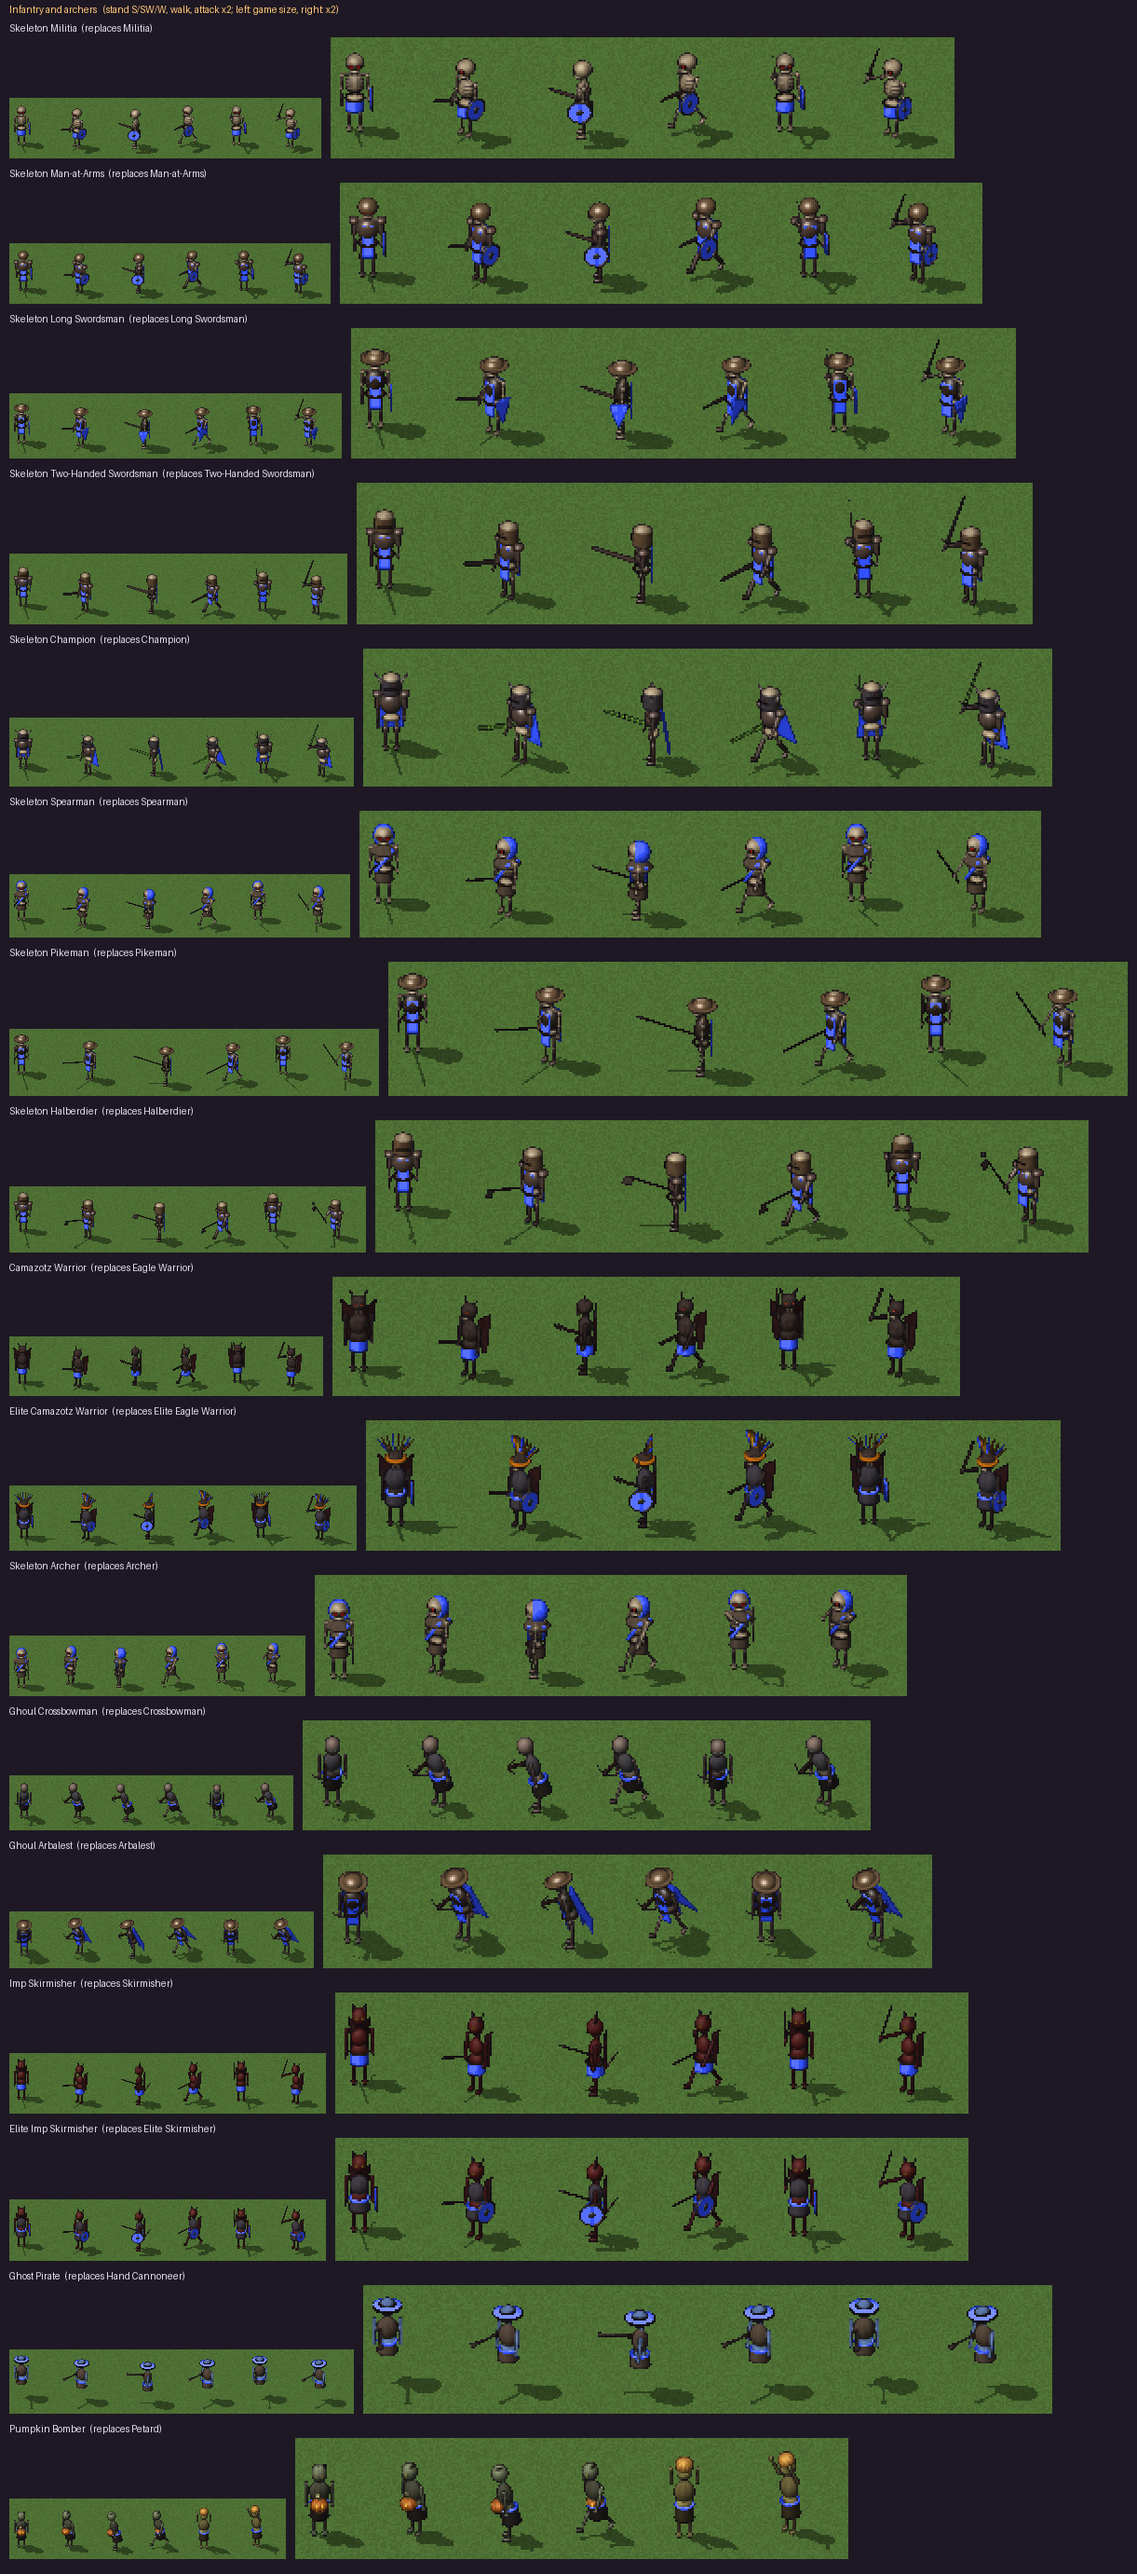
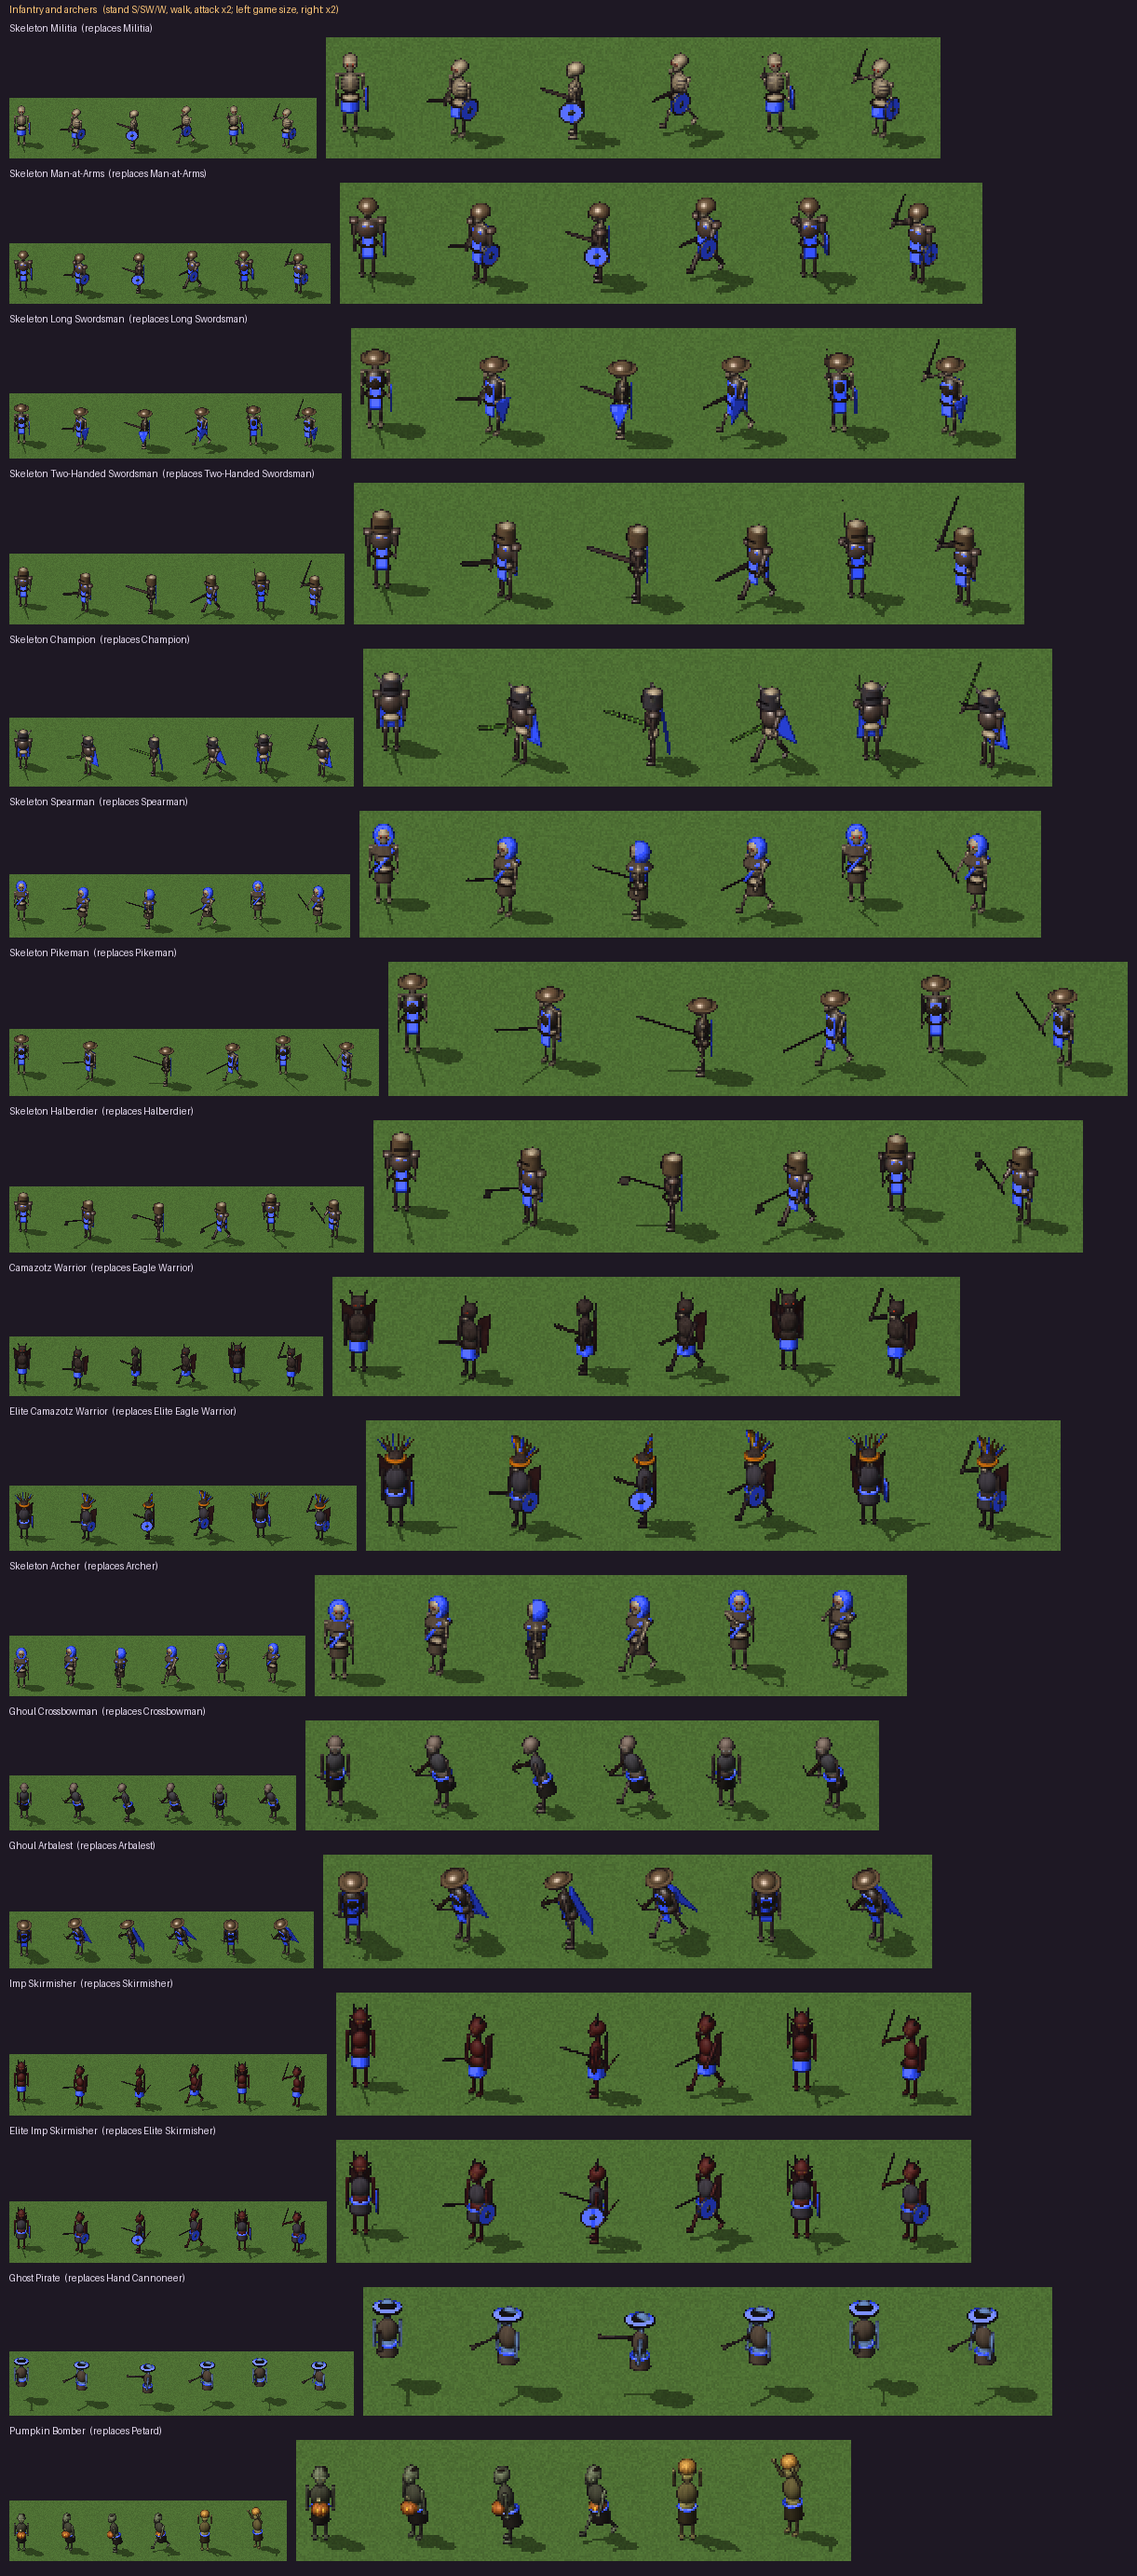
Model the units' heads instead of drawing them as balls
The player found many heads looked like Lego or a ball. Flesh heads
(zombies, ghouls, imps, the Vampire Lord, mummies, jiangshi, draugr, ghosts,
the Banshee) are now built from a cranium and a narrower face and jaw, a
brow ridge over sunken sockets with a glowing pupil in each, cheekbones, a
nose, a mouth, a chin and ears. Zombies and ghouls gape with a few teeth and
patchy hair, imps have long pointed ears under their horns, the draugr a
frosted braided beard, and the Vampire Lord keeps his hair, brows and fangs
on the new face. Every skeleton has the skull modelled bone by bone that
the Necromancer got; the Day of the Dead calaveras have it too, decorated
with flower petals round the eyes, a red heart on the nose and coloured
dots on the brow.

diff --git a/tools/aoh/creatures.py b/tools/aoh/creatures.py
@@ -213,6 +213,7 @@ RED_EYES = (1.0, 0.14, 0.06)  # the player asked for no more green eyes (2026-10
 
 def body(kind: str, seed: int = 0, **kw) -> Body:
     kw.setdefault("eye", EYES.get(kind, EYES["skeleton"]))
+    kw.setdefault("sculpted", kind == "skeleton")  # every skeleton gets the modelled skull, not a ball
     b = Body(kind=kind, **kw)
     if b.skin is None:
         b.skin = SKIN[kind](seed) if kind in SKIN else P.bone(seed)
@@ -230,6 +231,8 @@ def _skull_shapes(b: Body, seed: int) -> list:
     from .undead import _jaw_material, _skull_material
     n = b.neck
     k = b.size
+    if b.kind == "calavera":
+        return _sculpted_skull(n, k, b.eye, seed) + _sugar(n, k, seed)
     if b.sculpted:
         return _sculpted_skull(n, k, b.eye, seed)
     skull_m = _skull_material(b.eye, seed)
@@ -260,6 +263,27 @@ def _sculpted_skull(n: float, k: float, glow, seed: int) -> list:
     for sx in (1, -1):  # the cheekbones
         out.append(S.Ellipsoid(bone, S._orient(tuple(c + (sx * 1.75 * k, 1.6 * k, -0.75 * k))),
                                radii=(0.7 * k, 1.0 * k, 0.5 * k)))
+    return out
+
+
+def _sugar(n: float, k: float, seed: int) -> list:
+    """A sugar skull's decoration on the sculpted skull: petals round both eyes, a red heart on the nose, a row of
+    coloured dots across the brow (Day of the Dead)."""
+    cols = [P.hexrgb("#e0407a"), P.hexrgb("#f08a10"), P.hexrgb("#20b0b0"), P.hexrgb("#f0d020"), P.hexrgb("#8a40d0")]
+    out = []
+    for sx in (1, -1):
+        for j in range(7):
+            a = 2 * math.pi * j / 7
+            p = (sx * 0.95 * k + math.cos(a) * 0.95 * k, 2.55 * k + 0.3, n + 3.75 * k + math.sin(a) * 0.85 * k)
+            out.append(S.Ellipsoid(S.mat(cols[(j + seed) % len(cols)], vivid=1.0), S._orient(p),
+                                   radii=(0.32 * k, 0.2 * k, 0.32 * k)))
+    red = S.mat(P.hexrgb("#d01830"), vivid=1.0)
+    out += [S.ball((-0.2 * k, 2.95 * k + 0.3, n + 3.05 * k), 0.24 * k, red),
+            S.ball((0.2 * k, 2.95 * k + 0.3, n + 3.05 * k), 0.24 * k, red)]
+    for j in range(5):
+        x = (j - 2) * 0.75 * k
+        out.append(S.ball((x, 2.45 * k + 0.25 - abs(x) * 0.12, n + 5.0 * k - abs(x) * 0.15), 0.22 * k,
+                          S.mat(cols[(j + seed + 2) % len(cols)], vivid=1.0)))
     return out
 
 
@@ -336,34 +360,46 @@ def _head_shapes(b: Body, seed: int) -> list:
                        plate),
                 S.hull([(3.3, 0.3, n + 4.8), (3.3, 0.3, n + 6.0), (3.3, -0.4, n + 5.4), (6.0, 0.3, n + 7.6)],
                        plate)]
-    # flesh heads: a slightly long skull shape with sunken glowing eyes and a gaping mouth
-    eyes = [(-1.25, 0.6, 0.62, 0.48), (1.25, 0.6, 0.62, 0.48)]
-    m = eyes_material(b.skin, eyes, eye, 0.55)
-    shapes = [S.Ellipsoid(m, S._orient((0, 0.3, n + 3.3 * k)), radii=(3.0 * k, 3.2 * k, 3.5 * k))]
-    if kind in ("zombie", "ghoul", "draugr", "banshee", "imp"):  # a gaping mouth
-        shapes.append(S.Ellipsoid(S.mat(P.hexrgb("#1a0a0c")), S._orient((0, 2.6 * k, n + 1.6 * k)),
-                                  radii=(1.1 * k, 0.6 * k, 0.9 * k)))
-    if kind == "zombie":
-        shapes.append(S.ball((-1.6, 0.0, n + 6.0), (1.0, 1.4, 0.4), P.mottled(P.hexrgb("#2a2018"))))  # matted hair
+    # flesh heads, modelled (the player found ball heads like Lego): a cranium, a narrower face and jaw, a brow
+    # ridge over sunken sockets with glowing pupils, cheekbones, a nose, a mouth, a chin and ears
+    shapes = _face_shapes(b, seed)
+    c = np.array([0.0, 0.0, n + 3.4 * k])
+    dark = S.mat(P.hexrgb("#16080c"))
+    if kind in ("zombie", "ghoul", "draugr", "imp", "ghost"):  # a gaping mouth, a few teeth
+        gape = 0.55 if kind in ("zombie", "ghoul", "ghost") else 0.35
+        shapes.append(S.Ellipsoid(S.mat(P.hexrgb("#1a0a0c")), S._orient(tuple(c + (0, 2.65 * k, -1.75 * k))),
+                                  radii=(0.95 * k, 0.45 * k, gape * k)))
+        if kind != "ghost":
+            for x in (-0.55, -0.15, 0.3, 0.6):
+                shapes.append(S.block((x * k - 0.16, 2.95 * k, -1.45 * k + c[2] - 0.5), (x * k + 0.16, 3.15 * k,
+                                                                                         -1.45 * k + c[2]),
+                                      S.mat(P.hexrgb("#c8b890"))))
+    if kind == "zombie":  # matted hair in patches, one ear torn
+        hair = P.mottled(P.hexrgb("#2a2018"))
+        shapes += [S.ball(tuple(c + (-1.4, -0.6, 2.6)), (1.3, 1.6, 0.6), hair),
+                   S.ball(tuple(c + (1.0, -1.6, 2.2)), (1.0, 1.2, 0.5), hair)]
     if kind == "imp":
         horn = S.mat(P.hexrgb("#1a1414"), shine=0.4)
-        shapes += [S.rod((-1.6, 0.4, n + 5.6), (-2.8, -0.8, n + 9.0), 0.7, horn, 0.1),
-                   S.rod((1.6, 0.4, n + 5.6), (2.8, -0.8, n + 9.0), 0.7, horn, 0.1)]
+        shapes += [S.rod((-1.5, 0.2, n + 5.6), (-2.8, -0.9, n + 9.0), 0.7, horn, 0.1),
+                   S.rod((1.5, 0.2, n + 5.6), (2.8, -0.9, n + 9.0), 0.7, horn, 0.1)]
+        for sx in (1, -1):  # long pointed ears
+            shapes.append(S.hull([c + (sx * 2.6, 0.2, -0.6), c + (sx * 2.6, 0.6, 0.6), c + (sx * 2.5, -0.5, 0.0),
+                                  c + (sx * 4.6, -0.6, 1.4)], b.skin))
+    if kind == "draugr":  # a braided beard, frosted
+        beard = P.mottled(P.hexrgb("#8a8478"), P.hexrgb("#3a3630"), 1.0, 0.5, seed)
+        shapes += [S.Ellipsoid(beard, S._orient(tuple(c + (0, 2.0 * k, -2.6 * k))), radii=(1.6, 1.2, 1.4)),
+                   S.rod(tuple(c + (0, 2.2 * k, -3.4 * k)), tuple(c + (0, 2.6 * k, -6.4 * k)), 0.9, beard, 0.35)]
     if kind == "vampire":  # slicked-back black hair with a widow's peak, pointed ears, sharp brows, fangs
         hair = S.mat(P.hexrgb("#141016"), shine=0.6, gloss=30)
-        dark = S.mat(P.hexrgb("#16080c"))
-        shapes += [S.ball((0, -0.5, n + 4.6), (3.15, 3.2, 2.6), hair).clip((0, 1, -0.6), 0.9),
-                   S.hull([(-1.5, 2.55, n + 6.1), (1.5, 2.55, n + 6.1), (0, 3.2, n + 4.9), (0, 2.2, n + 6.6),
-                           (0, 1.6, n + 6.0)], hair),  # the widow's peak
-                   S.Ellipsoid(b.skin, S._orient((0, 2.3, n + 0.7)), radii=(1.3, 1.1, 1.0)),  # a pointed chin
-                   S.Ellipsoid(b.skin, S._orient((0, 3.15, n + 2.8)), radii=(0.35, 0.45, 0.85)),  # a thin nose
-                   S.Ellipsoid(dark, S._orient((0, 2.95, n + 1.55)), radii=(1.05, 0.3, 0.2)),  # a thin mouth
-                   S.hull([(-0.75, 2.95, n + 1.55), (-0.4, 2.95, n + 1.55), (-0.58, 3.05, n + 0.75)], S.mat(P.BONE)),
-                   S.hull([(0.75, 2.95, n + 1.55), (0.4, 2.95, n + 1.55), (0.58, 3.05, n + 0.75)], S.mat(P.BONE))]
+        shapes += [S.ball(tuple(c + (0, -0.7, 1.4)), (3.0, 3.15, 2.5), hair).clip((0, 1, -0.6), 0.8),
+                   S.hull([c + (-1.4, 2.0, 2.6), c + (1.4, 2.0, 2.6), c + (0, 2.55, 1.5), c + (0, 1.6, 3.0),
+                           c + (0, 1.2, 2.4)], hair),  # the widow's peak
+                   S.hull([c + (-0.7, 2.95, -1.65), c + (-0.4, 2.95, -1.65), c + (-0.56, 3.0, -2.35)], S.mat(P.BONE)),
+                   S.hull([c + (0.7, 2.95, -1.65), c + (0.4, 2.95, -1.65), c + (0.56, 3.0, -2.35)], S.mat(P.BONE))]
         for sx in (1, -1):
-            shapes += [S.hull([(sx * 2.7, 0.2, n + 2.7), (sx * 2.7, 0.7, n + 4.1), (sx * 2.6, -0.5, n + 3.6),
-                               (sx * 4.1, -0.7, n + 5.4)], b.skin),  # pointed ears
-                       S.rod((sx * 0.35, 3.25, n + 4.55), (sx * 2.0, 2.75, n + 5.25), 0.24, dark, 0.14)]  # brows
+            shapes += [S.hull([c + (sx * 2.6, 0.2, -0.8), c + (sx * 2.6, 0.7, 0.6), c + (sx * 2.5, -0.5, 0.0),
+                               (sx * 4.0, -0.7, c[2] + 1.9)], b.skin),  # pointed ears
+                       S.rod(tuple(c + (sx * 0.3, 2.85, 0.95)), tuple(c + (sx * 1.9, 2.35, 1.55)), 0.22, dark, 0.13)]
     if kind == "jiangshi":  # the Qing hat and the yellow paper talisman on the forehead
         hat = S.mat(P.hexrgb("#1a1418"))
         shapes += [S.rod((0, 0.3, n + 5.6), (0, 0.3, n + 6.6), 3.6, hat, 3.1),
@@ -371,14 +407,39 @@ def _head_shapes(b: Body, seed: int) -> list:
                    S.ball((0, 0.3, n + 8.0), 0.6, P.team(0.6)),
                    S.block((-1.0, 3.3, n + 0.6), (1.0, 3.6, n + 5.2),
                            S.Material(color=_talisman, vivid=0.8))]
-    if kind == "mummy":
-        shapes.append(S.ball((0, 0.3, n + 3.3), (3.15, 3.35, 3.65), b.skin).clip((0, -1, 0), -2.2))
     if kind == "banshee":  # long white hair streaming down the back
         hair = ghostly(P.hexrgb("#f2f4f6"), seed + 3)
-        shapes += [S.ball((0, -0.6, n + 4.0), (3.4, 3.4, 3.2), hair).clip((0, 1, 0), 0.8),
+        shapes += [S.ball((0, -0.8, n + 4.0), (3.2, 3.3, 3.1), hair).clip((0, 1, 0), 0.6),
                    S.rod((0, -2.2, n + 4.0), (0, -3.4, n - 9.0), 2.8, hair, 0.8)]
     return shapes
 
+
+
+def _face_shapes(b: Body, seed: int) -> list:
+    """A modelled head of flesh (or bandage, or ghost): the cranium, a narrower face and jaw under it, a brow ridge,
+    sunken dark sockets with a glowing pupil in each, cheekbones, a nose, a mouth, a chin and ears."""
+    n, k = b.neck, b.size
+    skin = b.skin
+    dark = S.mat(P.hexrgb("#120a0c"))
+    glow = S.mat(tuple(b.eye), glow=1.0)
+    c = np.array([0.0, 0.0, n + 3.4 * k])
+    out = [S.Ellipsoid(skin, S._orient(tuple(c + (0, -0.4 * k, 0.3 * k))), radii=(2.85 * k, 3.0 * k, 3.0 * k)),
+           S.Ellipsoid(skin, S._orient(tuple(c + (0, 0.9 * k, -1.0 * k))), radii=(2.25 * k, 2.1 * k, 2.3 * k)),
+           S.Ellipsoid(skin, S._orient(tuple(c + (0, 2.15 * k, 0.75 * k))), radii=(2.3 * k, 0.75 * k, 0.55 * k)),
+           S.Ellipsoid(skin, S._orient(tuple(c + (0, 1.9 * k, -2.4 * k))), radii=(1.2 * k, 1.0 * k, 0.9 * k)),
+           S.hull([c + (0, 2.3 * k, 0.55 * k), c + (-0.45 * k, 2.4 * k, -0.9 * k), c + (0.45 * k, 2.4 * k, -0.9 * k),
+                   c + (0, 3.35 * k, -0.85 * k), c + (0, 2.0 * k, -0.3 * k)], skin),
+           S.Ellipsoid(dark, S._orient(tuple(c + (0, 2.75 * k, -1.55 * k))), radii=(0.95 * k, 0.3 * k, 0.2 * k))]
+    for sx in (1, -1):
+        out += [S.Ellipsoid(skin, S._orient(tuple(c + (sx * 1.55 * k, 1.85 * k, -0.45 * k))),
+                            radii=(0.75 * k, 0.9 * k, 0.55 * k)),
+                S.Ellipsoid(dark, S._orient(tuple(c + (sx * 0.95 * k, 2.2 * k, 0.15 * k))),
+                            radii=(0.62 * k, 0.4 * k, 0.42 * k)),
+                S.ball(tuple(c + (sx * 0.95 * k, 2.5 * k, 0.15 * k)), 0.22 * k, glow)]
+        if b.kind not in ("vampire", "imp"):
+            out.append(S.Ellipsoid(skin, S._orient(tuple(c + (sx * 2.75 * k, -0.2 * k, -0.1 * k))),
+                                   radii=(0.35 * k, 0.8 * k, 1.0 * k)))
+    return out
 
 def _talisman(look):
     p = look.p

diff --git a/docs/DESIGN.md b/docs/DESIGN.md
@@ -30,6 +30,12 @@ Every picture is generated by code from shapes and materials (`sculpt.py`,
 All units are modelled; the complete list is in [UNITS.md](UNITS.md). Each
 group has a preview sheet, `previews/cast_<group>.png`.
 
+Heads are modelled, not balls. A face has a cranium and a narrower jaw, a brow
+ridge over sunken sockets with glowing pupils, cheekbones, a nose, a mouth, a
+chin and ears. Skeletons have a skull modelled bone by bone (brow, cheekbones,
+nose hole, teeth). The Day of the Dead calaveras' skulls have flower petals
+round the eyes, a red heart on the nose and coloured dots on the brow.
+
 ![foot](../previews/cast_foot.png)
 
 | Group | Halloween take |
